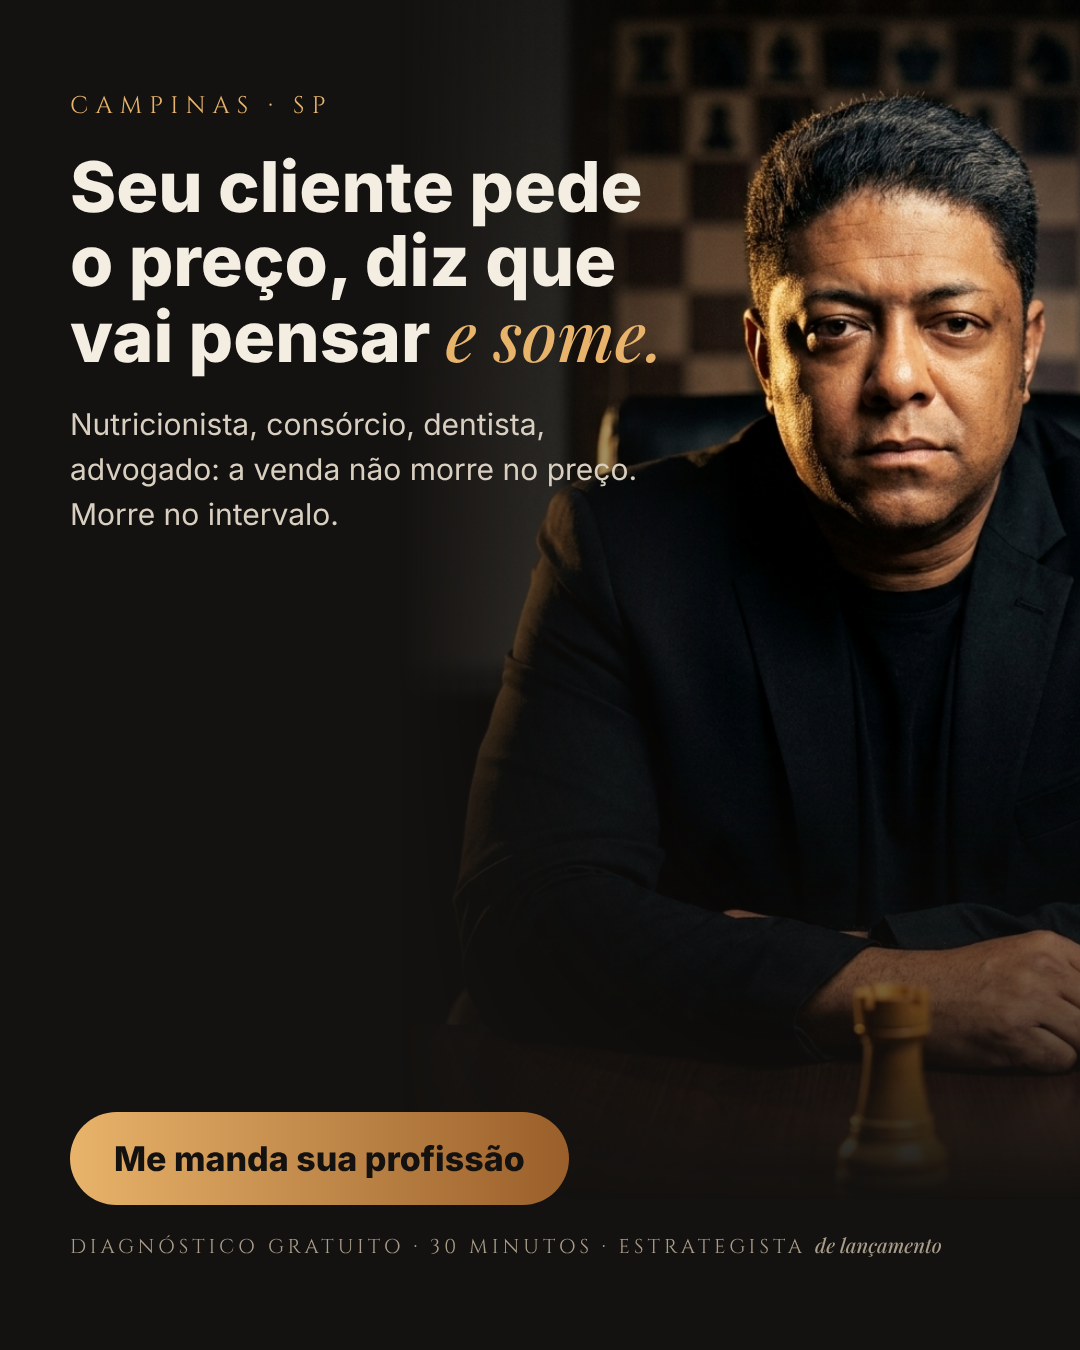
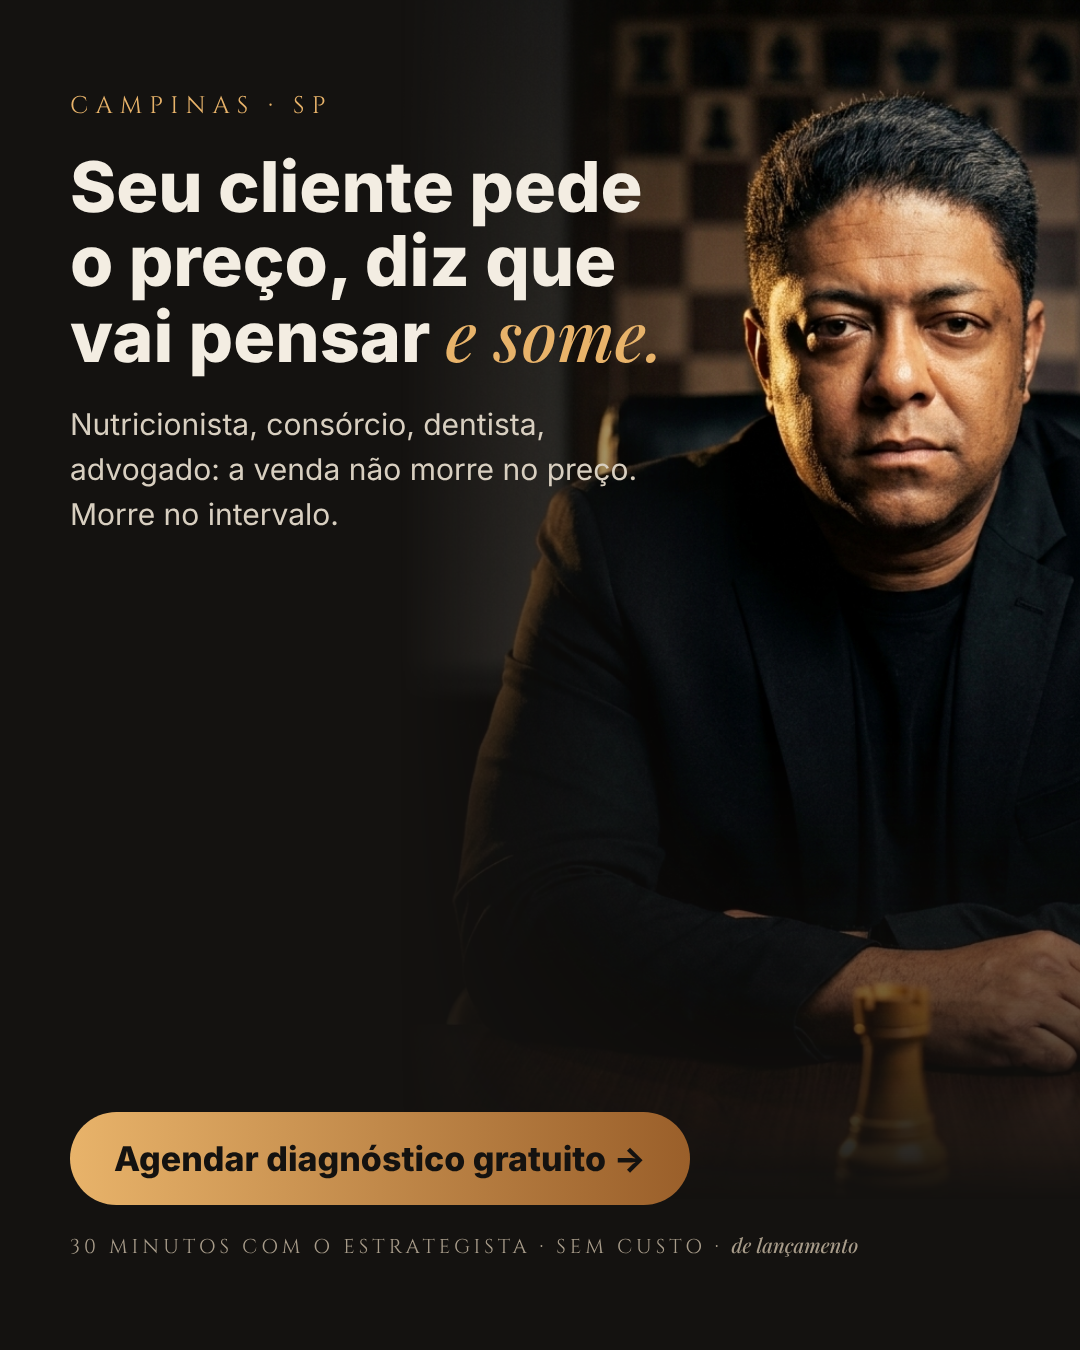
Estático Campinas: CTA de anúncio (agendar diagnóstico)
Claude-Session: https://claude.ai/code/session_01D6NtRh1ZFd58NJkYdfc4eK

Changed region(s): [[0.0917, 0.8089, 0.8556, 0.9333], [0.0611, 0.9022, 0.3667, 0.9333], [0.3972, 0.9022, 0.4889, 0.9333]]

diff --git a/videos/ads/a01-campinas/estatico.html b/videos/ads/a01-campinas/estatico.html
@@ -14,5 +14,5 @@ h1 i{font-family:Pf;font-weight:400;color:#E8B36A}
 </style></head><body><div class="f"></div>
 <div class="t"><div class=lb>CAMPINAS · SP</div><h1>Seu cliente pede o preço, diz que vai pensar <i>e some.</i></h1>
 <div class=pr>Nutricionista, consórcio, dentista, advogado: a venda não morre no preço. Morre no intervalo.</div></div>
-<div class="b"><div class=c>Me manda sua profissão</div><div class=s>DIAGNÓSTICO GRATUITO · 30 MINUTOS · ESTRATEGISTA <i style="font-family:Pf;letter-spacing:0">de lançamento</i></div></div>
+<div class="b"><div class=c>Agendar diagnóstico gratuito →</div><div class=s>30 MINUTOS COM O ESTRATEGISTA · SEM CUSTO · <i style="font-family:Pf;letter-spacing:0">de lançamento</i></div></div>
 </body></html>
